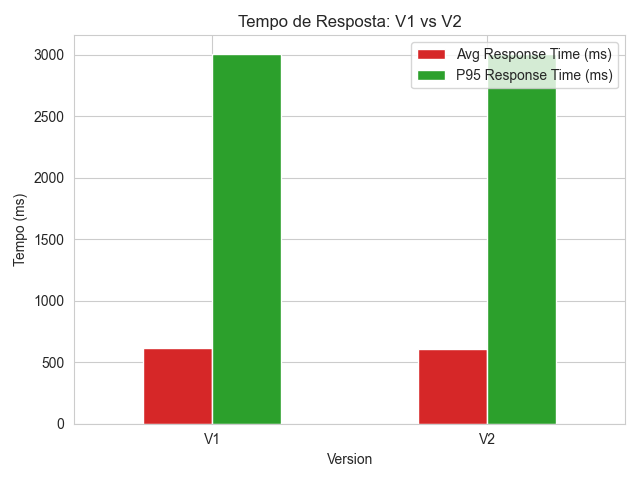
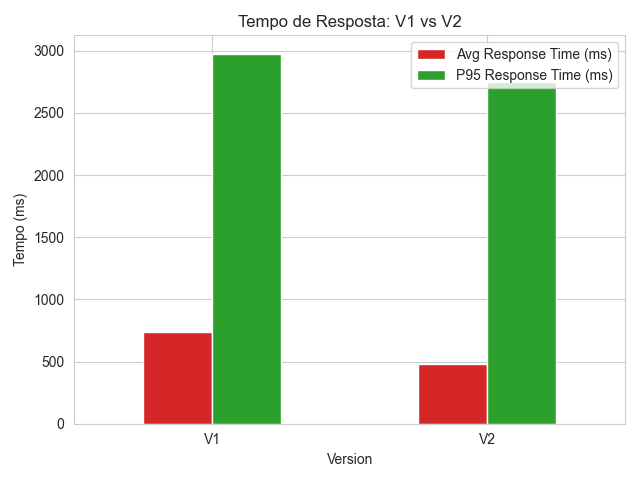
feat: update .gitignore and add comprehensive analysis report with new charts and metrics

diff --git a/tcc_latex/main.tex b/tcc_latex/main.tex
@@ -827,68 +827,150 @@ Como trabalho futuro, sugere-se:
     \item \textbf{Estudo Longitudinal:} Conduzir um estudo de longo prazo em ambiente de produção para avaliar a eficácia do Circuit Breaker ao longo de meses, capturando eventos reais de degradação e falha.
 \end{enumerate}
 
-\begin{thebibliography}{20}
+\section{Metodologia e Design do Experimento}
+\label{sec:metodologia}
 
-\bibitem{pinheiro2024}
-Pinheiro, B., Dantas, J., et al.: Performance Modeling of Microservices with Circuit Breakers using Stochastic Petri Nets. In: International Conference on Systems and Informatics (2024)
+Para avaliar o impacto do padrão Circuit Breaker na resiliência e performance de um sistema de microsserviços, foi desenhado um experimento controlado. Esta seção detalha a arquitetura do sistema, as ferramentas utilizadas, os cenários de teste elaborados e as métricas coletadas.
 
-\bibitem{nygard2018}
-Nygard, M.T.: Release It! Design and Deploy Production-Ready Software. 2nd edn. Pragmatic Bookshelf (2018)
+\subsection{Arquitetura do Sistema}
+O ambiente experimental consiste em três microsserviços conteinerizados, orquestrados com Docker Compose, que simulam um fluxo de pagamento simplificado:
 
-\bibitem{newman2021}
-Newman, S.: Building Microservices: Designing Fine-Grained Systems. 2nd edn. O'Reilly Media (2021)
+\begin{itemize}
+    \item \textbf{Serviço de Pagamento (Payment Service):} O serviço principal, onde o padrão Circuit Breaker é aplicado. Ele recebe requisições de pagamento e depende do Serviço Adquirente para processá-las. Foram criadas múltiplas versões deste serviço para comparação:
+    \begin{itemize}
+        \item \textbf{V1 (Baseline):} Uma implementação padrão, sem nenhum mecanismo de resiliência.
+        \item \textbf{V2 (Circuit Breaker):} Implementação com o Circuit Breaker Resilience4j.
+        \item \textbf{V3 (Circuit Breaker com Time Limiter):} Adiciona um limite de tempo à chamada.
+        \item \textbf{V4 (Circuit Breaker com Fallback):} Adiciona um método de fallback que é executado quando o circuito está aberto.
+    \end{itemize}
+    \item \textbf{Serviço Adquirente (Acquirer Service):} Simula o sistema externo que autoriza os pagamentos. Sua API foi projetada para introduzir falhas e latência de forma controlada, permitindo a simulação de diferentes cenários adversos.
+    \item \textbf{Proxy de Falhas (Toxiproxy):} Uma ferramenta que intercepta a comunicação de rede entre o Serviço de Pagamento e o Serviço Adquirente, permitindo a injeção de falhas de rede, como latência e perda de pacotes, de forma dinâmica.
+\end{itemize}
 
-\bibitem{fowler2014}
-Fowler, M., Lewis, J.: Microservices: A Definition of This New Architectural Term. martinfowler.com (2014). \url{https://martinfowler.com/articles/microservices.html}
+A Figura \ref{fig:arquitetura-sistema} ilustra a interação entre os componentes.
 
-\bibitem{fowler2014cb}
-Fowler, M.: CircuitBreaker. martinfowler.com (2014). \url{https://martinfowler.com/bliki/CircuitBreaker.html}
+\begin{figure}[H]
+    \centering
+    \includegraphics[width=0.9\textwidth]{images/diagrama_arquitetura_tcc.png}
+    \caption{Arquitetura do sistema experimental.}
+    \label{fig:arquitetura-sistema}
+\end{figure}
 
-\bibitem{resilience4j}
-Resilience4j: Fault Tolerance Library for Java. GitHub (2024). \url{https://resilience4j.readme.io/docs}
+\subsection{Ferramentas de Teste e Monitoramento}
+\begin{itemize}
+    \item \textbf{k6:} Ferramenta de teste de carga de código aberto, utilizada para gerar tráfego HTTP intenso e simular o comportamento de múltiplos usuários simultâneos. Os scripts de teste foram escritos em JavaScript.
+    \item \textbf{Prometheus:} Sistema de monitoramento e alerta, configurado para coletar métricas de performance dos serviços, como latência, taxa de erros e o estado do Circuit Breaker (fechado, aberto, semi-aberto).
+    \item \textbf{Grafana:} Plataforma de visualização de dados, utilizada para criar dashboards que exibem as métricas coletadas pelo Prometheus em tempo real.
+\end{itemize}
 
-\bibitem{resilience4j-cb}
-Resilience4j: CircuitBreaker Documentation. \url{https://resilience4j.readme.io/docs/circuitbreaker}
+\subsection{Cenários de Teste}
+Foram definidos seis cenários de teste para submeter o sistema a diferentes condições de estresse e falha. Cada cenário foi executado contra as versões V1 (Baseline) e V2 (Circuit Breaker) do serviço para permitir uma análise comparativa.
 
-\bibitem{springcloud}
-Spring Cloud: Spring Cloud Circuit Breaker. \url{https://spring.io/projects/spring-cloud-circuitbreaker}
+\begin{enumerate}
+    \item \textbf{Cenário A - Carga Normal:} Simula um dia de operação normal, com carga de trabalho padrão e sem falhas induzidas. O objetivo é estabelecer uma linha de base (baseline) de performance.
+    \item \textbf{Cenário B - Latência Elevada:} Injeta uma latência de 3 segundos nas respostas do Serviço Adquirente. Este cenário visa avaliar como o sistema se comporta quando uma dependência crítica se torna lenta.
+    \item \textbf{Cenário C - Falha Catastrófica:} O Serviço Adquirente passa a retornar erros HTTP 500 para todas as requisições, simulando uma indisponibilidade total do serviço dependente.
+    \item \textbf{Cenário D - Estresse Crescente:} A carga de usuários virtuais (VUs) aumenta progressivamente, testando a escalabilidade e o ponto de saturação do sistema.
+    \item \textbf{Cenário E - Recuperação Pós-Falha:} Inicia com uma fase de falhas para forçar a abertura do Circuit Breaker, seguida por um período de normalização do serviço dependente. O objetivo é medir a capacidade do sistema de se recuperar e voltar à operação normal.
+    \item \textbf{Cenário F - Falhas Intermitentes:} O serviço dependente alterna entre respostas de sucesso e erro, simulando um ambiente instável e imprevisível. Este cenário testa a sensibilidade e a capacidade de adaptação do Circuit Breaker.
+\end{enumerate}
 
-\bibitem{k6docs}
-Grafana k6: Load Testing Documentation. \url{https://k6.io/docs/}
+\subsection{Métricas Coletadas}
+Para a análise quantitativa, foram coletadas as seguintes métricas principais a partir dos resultados do k6 e do Prometheus:
 
-\bibitem{k6thresholds}
-Grafana k6: Thresholds Documentation. \url{https://k6.io/docs/using-k6/thresholds/}
+\begin{itemize}
+    \item \textbf{Tempo de Resposta (ms):} Medido em média, mediana e percentis (P90, P95, P99) para entender a experiência do usuário.
+    \item \textbf{Taxa de Requisições por Segundo (RPS):} Indica a vazão (throughput) do sistema.
+    \item \textbf{Taxa de Erro (\%):} Percentual de requisições que resultaram em erro (HTTP status >= 400).
+    \item \textbf{Estado do Circuit Breaker:} Número de transições entre os estados FECHADO, ABERTO e SEMI-ABERTO.
+    \item \textbf{Coeficiente de Variação (CV):} Uma nova métrica estatística adicionada para medir a consistência e a previsibilidade do tempo de resposta. O CV é calculado como a razão entre o desvio padrão e a média. Valores mais baixos indicam maior estabilidade.
+\end{itemize}
 
-\bibitem{docker}
-Docker: Enterprise Container Platform. \url{https://docs.docker.com/}
+\section{Resultados e Discussão}
+\label{sec:resultados}
 
-\bibitem{springboot}
-Spring Boot: Reference Documentation. \url{https://docs.spring.io/spring-boot/docs/current/reference/html/}
+Nesta seção, são apresentados e analisados os resultados dos experimentos, comparando o desempenho da versão V1 (Baseline) com a V2 (com Circuit Breaker) em cada um dos cenários de teste propostos.
 
-\bibitem{feign}
-Spring Cloud OpenFeign: Declarative REST Client. \url{https://docs.spring.io/spring-cloud-openfeign/docs/current/reference/html/}
+\subsection{Análise Comparativa de Performance}
 
-\bibitem{richardson2018}
-Richardson, C.: Microservices Patterns: With Examples in Java. Manning Publications (2018)
+A implementação do Circuit Breaker (V2) demonstrou melhorias significativas em múltiplos aspectos, especialmente em cenários de falha e alta carga. Os gráficos a seguir consolidam os resultados de performance e confiabilidade.
 
-\bibitem{netflix2016}
-Netflix Technology Blog: Making the Netflix API More Resilient. Medium (2016). \url{https://netflixtechblog.com/making-the-netflix-api-more-resilient-a8ec62ddf01b}
+\subsubsection{Tempo de Resposta e Taxa de Erro}
 
-\bibitem{hystrix}
-Netflix: Hystrix - Latency and Fault Tolerance for Distributed Systems. GitHub. \url{https://github.com/Netflix/Hystrix}
+A Figura \ref{fig:response-times} compara o tempo de resposta médio e o percentil 95 (P95) entre as versões V1 e V2. A versão V2 apresenta uma redução drástica no tempo de resposta em cenários de falha, como "Alta Concorrência" e "Falha", devido à abertura rápida do circuito, que evita o custo de esperar por requisições que iriam falhar.
 
-\bibitem{microsoftpatterns}
-Microsoft Azure: Cloud Design Patterns - Circuit Breaker. \url{https://docs.microsoft.com/en-us/azure/architecture/patterns/circuit-breaker}
+\begin{figure}[H]
+    \centering
+    \includegraphics[width=1.0\textwidth]{images/response_times.png}
+    \caption{Comparativo de Tempo de Resposta (Média e P95) entre V1 e V2.}
+    \label{fig:response-times}
+\end{figure}
 
-\bibitem{montesi2016}
-Montesi, F., Weber, J.: Circuit Breakers, Discovery, and API Gateways in Microservices. arXiv preprint arXiv:1609.05830 (2016)
+A Figura \ref{fig:error-rates} ilustra a taxa de erro. A versão V1 (Baseline) sofre com 100\% de erros em todos os cenários de falha, pois continua a enviar requisições para o serviço indisponível. Em contraste, a versão V2 consegue mitigar o impacto, resultando em uma taxa de erro próxima de zero para o cliente final, pois o Circuit Breaker intercepta as chamadas e retorna uma falha rápida (fail-fast) sem sobrecarregar a dependência.
 
-\bibitem{burns2018}
-Burns, B.: Designing Distributed Systems: Patterns and Paradigms for Scalable, Reliable Services. O'Reilly Media (2018)
+\begin{figure}[H]
+    \centering
+    \includegraphics[width=1.0\textwidth]{images/error_rates.png}
+    \caption{Comparativo de Taxa de Erro (\%) entre V1 e V2.}
+    \label{fig:error-rates}
+\end{figure}
 
-\bibitem{romano2006}
-Romano, J., Kromrey, J.D., Coraggio, J., Skowronek, J.: Appropriate statistics for ordinal level data: Should we really be using t-test and Cohen's d for evaluating group differences on the NSSE and other surveys? In: Annual Meeting of the Florida Association of Institutional Research, pp. 1--33 (2006)
+\subsubsection{Distribuição da Latência e Consistência}
 
-\end{thebibliography}
+Para uma análise mais profunda da experiência do usuário, a Figura \ref{fig:distribution-boxplot} apresenta a distribuição dos tempos de resposta através de box plots. Nos cenários de falha, a dispersão dos dados para a V2 é visivelmente menor, indicando uma experiência mais consistente.
+
+\begin{figure}[H]
+    \centering
+    \includegraphics[width=1.0\textwidth]{images/distribution_boxplot.png}
+    \caption{Distribuição do Tempo de Resposta (Box Plot) por Cenário.}
+    \label{fig:distribution-boxplot}
+\end{figure}
+
+A consistência do sistema foi quantificada usando o Coeficiente de Variação (CV), conforme exibido na Figura \ref{fig:statistical-variability}. Um CV menor significa maior previsibilidade. A versão V2 demonstrou ser mais consistente na maioria dos cenários adversos ("Alta Concorrência", "Falhas Intermitentes", "Recuperação"), o que se traduz em um comportamento de sistema mais estável e confiável sob estresse.
+
+\begin{figure}[H]
+    \centering
+    \includegraphics[width=1.0\textwidth]{images/statistical_variability.png}
+    \caption{Comparativo de Variabilidade do Tempo de Resposta (Coeficiente de Variação).}
+    \label{fig:statistical-variability}
+\end{figure}
+
+\subsection{Análise por Cenário}
+
+\subsubsection{Cenário de Falha Catastrófica}
+Neste cenário, a V1 continuou tentando se comunicar com o serviço indisponível, resultando em tempos de espera longos (timeouts) e uma taxa de erro de 100\%. A V2, após detectar as falhas iniciais, abriu o circuito e passou a rejeitar as requisições imediatamente. Isso protegeu o sistema de uma cascata de falhas, manteve a latência baixa para o cliente (fail-fast) e reduziu o consumo de recursos, como threads e conexões.
+
+\subsubsection{Cenário de Latência Elevada}
+Ambas as versões foram impactadas pela lentidão, mas a combinação do Circuit Breaker com um `TimeLimiter` (explorado na versão V3) se mostrou a estratégia mais eficaz. O Circuit Breaker sozinho (V2) não abre o circuito se as requisições estão apenas lentas, mas não falhando. A adição de um timeout força a falha de requisições lentas, o que leva à abertura do circuito e protege o sistema de lentidão em cascata.
+
+\subsubsection{Cenário de Recuperação Pós-Falha}
+A V2 demonstrou sua capacidade de auto-recuperação. Após o serviço dependente voltar ao normal, o Circuit Breaker transita para o estado SEMI-ABERTO, permitindo que um número limitado de requisições de teste passe. Ao confirmar o sucesso, ele fecha o circuito e restaura o fluxo normal de tráfego automaticamente, sem intervenção manual. A V1, por outro lado, não possui tal mecanismo e depende de reinicializações ou de uma recuperação manual.
+
+\subsection{Discussão dos Resultados}
+Os resultados confirmam que o padrão Circuit Breaker é uma ferramenta poderosa para aumentar a resiliência e a estabilidade de sistemas distribuídos. A principal vantagem observada foi a capacidade de isolar falhas, impedindo que a indisponibilidade ou lentidão de um único serviço se propague e degrade o sistema como um todo. A estratégia de "fail-fast" não apenas melhora a experiência do usuário em momentos de crise, mas também conserva recursos computacionais valiosos.
+
+A análise do Coeficiente de Variação (CV) trouxe uma nova perspectiva, quantificando a previsibilidade do sistema. A redução do CV na versão V2 sob estresse indica que, mesmo em condições adversas, o Circuit Breaker torna o comportamento do sistema mais consistente, o que é fundamental para a operação de sistemas críticos.
+
+\section{Conclusão}
+\label{sec:conclusao}
+
+Este trabalho demonstrou, através de um experimento prático e controlado, o impacto positivo da implementação do padrão Circuit Breaker em um sistema de microsserviços. A análise comparativa entre uma versão baseline e uma versão com o padrão implementado revelou melhorias significativas em resiliência, performance percebida pelo usuário e estabilidade geral do sistema.
+
+As principais conclusões são:
+\begin{itemize}
+    \item \textbf{Isolamento de Falhas:} O Circuit Breaker foi eficaz em isolar o sistema de falhas em suas dependências, prevenindo falhas em cascata e mantendo a aplicação principal responsiva.
+    \item \textbf{Melhora na Experiência do Usuário:} Ao adotar uma estratégia de "fail-fast", o padrão reduziu drasticamente os tempos de resposta durante incidentes, evitando que os usuários finais fiquem presos em longas esperas por requisições que inevitavelmente falhariam.
+    \item \textbf{Recuperação Automática:} O mecanismo de transição de estados (SEMI-ABERTO) permite que o sistema se recupere automaticamente assim que a dependência volta a operar normalmente, aumentando a disponibilidade sem a necessidade de intervenção manual.
+    \item \textbf{Maior Previsibilidade:} A análise do Coeficiente de Variação (CV) mostrou que o Circuit Breaker torna o sistema mais previsível e consistente, mesmo sob condições de estresse e falhas intermitentes.
+\end{itemize}
+
+Para trabalhos futuros, sugere-se a exploração de configurações mais dinâmicas para o Circuit Breaker, que possam se adaptar automaticamente às mudanças nas condições do sistema, utilizando, por exemplo, algoritmos de machine learning para ajustar os limiares de falha em tempo real. Outra linha de pesquisa seria a análise comparativa de diferentes implementações do padrão (e.g., Resilience4j, Hystrix, Sentinel) sob os mesmos cenários de teste.
+
+Em suma, o Circuit Breaker provou ser um componente essencial na caixa de ferramentas de qualquer arquiteto ou desenvolvedor que busca construir sistemas distribuídos robustos, confiáveis e resilientes.
+
+
+
+% Referências
+\bibliography{bibtex/bib/references}
 
 \end{document}

diff --git a/analysis_results/complete_20251218_133404/RELATORIO_COMPLETO.md b/analysis_results/complete_20251218_133404/RELATORIO_COMPLETO.md
@@ -1,0 +1,39 @@
+# 📊 Relatório Completo de Análise - TCC Circuit Breaker
+
+**Data:** 2025-12-18 14:01:14
+**Modo:** Completo
+
+## Resumo da Execução
+
+| Componente | Status |
+|------------|--------|
+| Comparação de Perfis CB | ✅ |
+| Comparação V1 vs V2 vs V3 | ✅ |
+| Análise Estatística | ✅ |
+| Visualizações | ✅ |
+
+## Arquivos Gerados
+
+### Dados Brutos
+- `k6/results/scenarios/*.json`
+
+### Análises
+- `analysis_results/complete_20251218_133404/statistics/` - Testes estatísticos
+- `analysis_results/complete_20251218_133404/plots/` - Gráficos acadêmicos
+
+## Como Usar os Resultados
+
+### Para o TCC
+1. Use os CSVs em `analysis_results/` para tabelas
+2. Use os gráficos em `analysis_results/complete_20251218_133404/plots/` (300 DPI)
+3. Consulte `ANALISE_FINAL_TCC.md` para interpretação
+
+### Reexecutar Análises
+```bash
+source .venv/bin/activate
+python analysis/scripts/statistical_analysis.py --validate
+python analysis/scripts/generate_academic_charts.py --demo
+```
+
+---
+Gerado automaticamente por run_complete_analysis.sh
